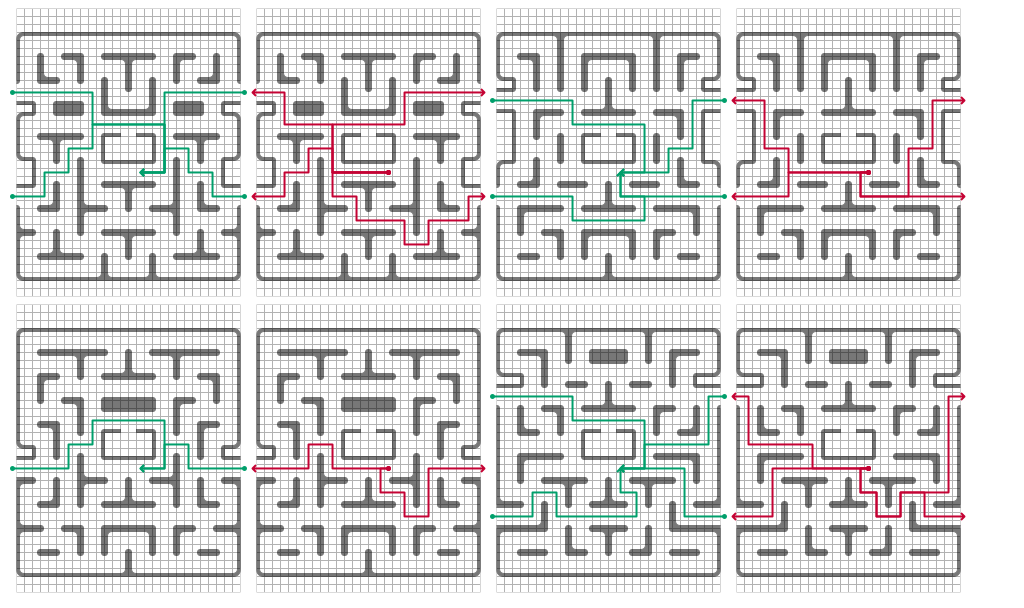
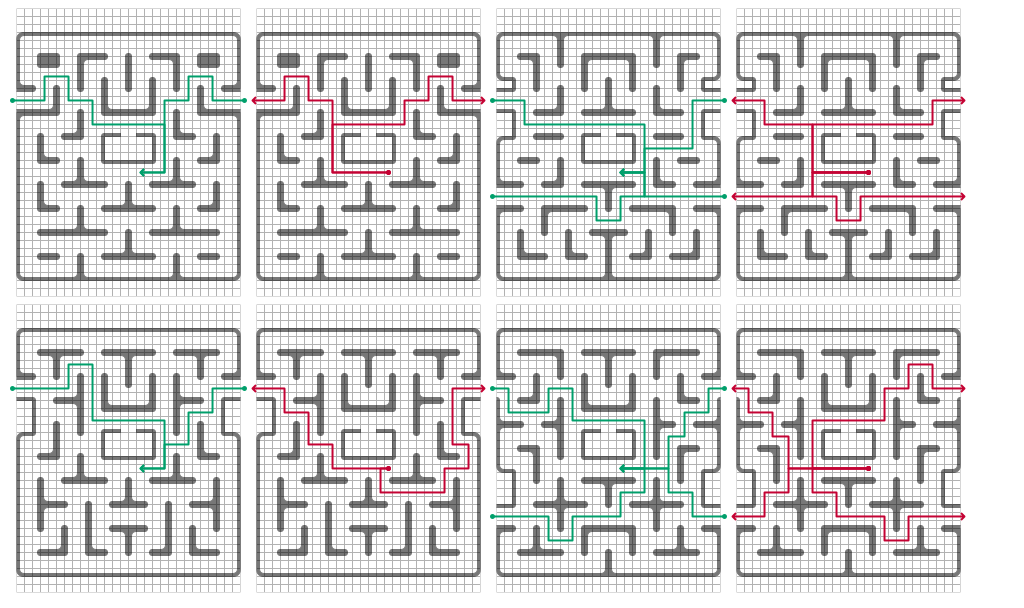
changed fruit path diagrams to have white background

Changed region(s): [[0.0, 0.5312, 0.9375, 0.9375], [0.0, 0.0625, 0.9375, 0.4688], [0.625, 0.0938, 0.6562, 0.1875]]

diff --git a/fruit/Map.js b/fruit/Map.js
@@ -260,10 +260,8 @@ Map.prototype.draw = function(ctx,left,top,print) {
     ctx.beginPath();
     ctx.rect(0,0,this.widthPixels, this.heightPixels);
     ctx.clip();
-    if (!print) {
-        ctx.fillStyle = "#000";
-        ctx.fillRect(0,0,this.widthPixels, this.heightPixels);
-    }
+    ctx.fillStyle = print ? "#fff" : "#000";
+    ctx.fillRect(0,0,this.widthPixels, this.heightPixels);
 
     // set colors
     ctx.fillStyle = print?"#777":this.wallFillColor;
